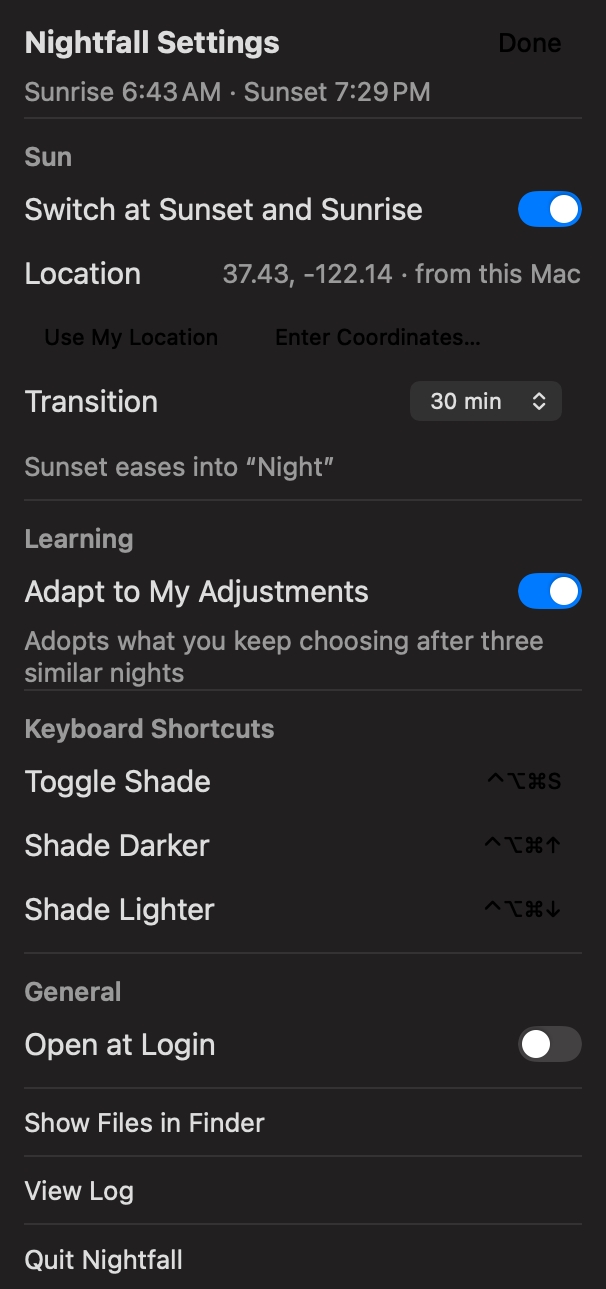
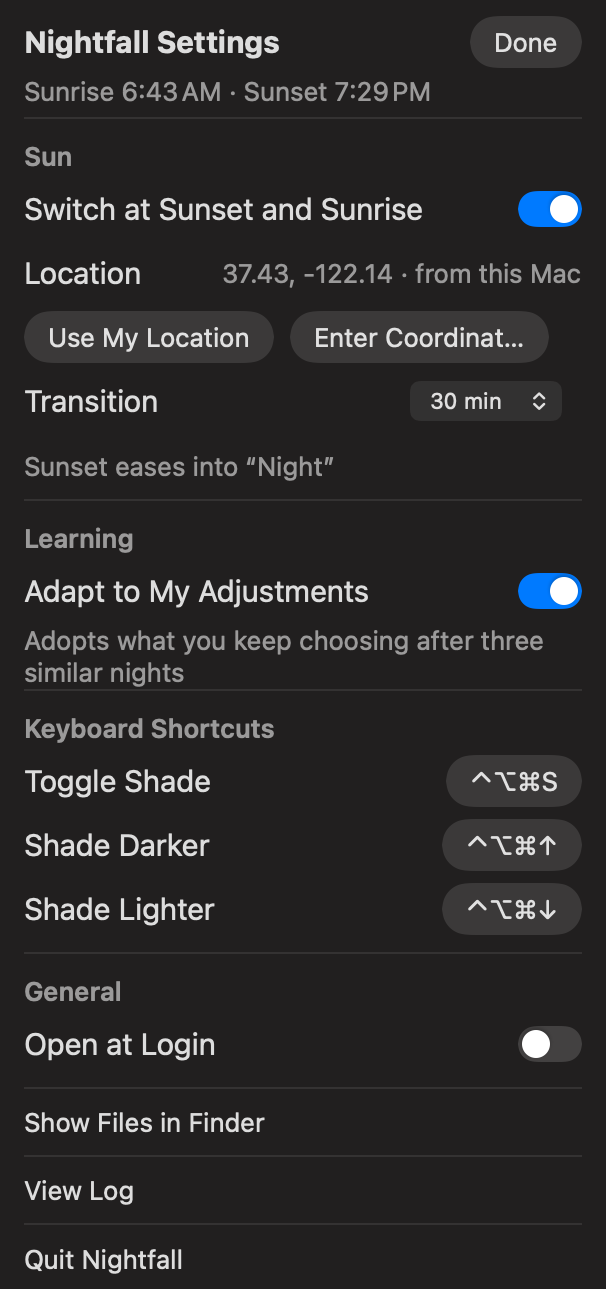
Settings screenshot with drawn button chrome; README install section

Changed region(s): [[0.0297, 0.2172, 0.9208, 0.2793], [0.7129, 0.5586, 0.9802, 0.7448], [0.7723, 0.0, 0.9505, 0.0621]]

diff --git a/app/NightfallApp.swift b/app/NightfallApp.swift
@@ -524,6 +524,20 @@ struct SwitchView: View {
         }
     }
 }
+struct PillButton: View {
+    let title: String; var prominent = false; var drawn = false; let action: () -> Void
+    var body: some View {
+        if drawn {
+            Text(title).font(CC.small).foregroundStyle(prominent ? Color.white : .primary)
+                .padding(.horizontal, 12).frame(height: 26)
+                .background(Capsule().fill(prominent ? Color.accentColor : Color.primary.opacity(0.14)))
+        } else if prominent {
+            Button(title) { action() }.buttonStyle(.glassProminent).controlSize(.small)
+        } else {
+            Button(title) { action() }.buttonStyle(.glass).controlSize(.small)
+        }
+    }
+}
 struct ToggleRow: View {
     let label: String; let isOn: Binding<Bool>; var drawn = false
     var body: some View { HStack { Text(label).font(CC.row); Spacer(); SwitchView(isOn: isOn, small: true, drawn: drawn) }.frame(height: 32) }
@@ -641,7 +655,7 @@ struct SettingsPage: View {
     var body: some View {
         VStack(spacing: 0) {
             TitleBlock(title: "Nightfall Settings", subtitle: "Sunrise \(m.sunriseText) · Sunset \(m.sunsetText)") {
-                Button { back() } label: { Text("Done").font(CC.small) }.buttonStyle(.glass).controlSize(.small)
+                PillButton(title: "Done", drawn: m.snapshotMode) { back() }
             }
 
             Header(text: "Sun")
@@ -654,8 +668,8 @@ struct SettingsPage: View {
                 TextRow(text: "Location access is off. Allow it in System Settings › Privacy & Security › Location Services, or enter coordinates.", secondary: true)
             }
             HStack(spacing: 8) {
-                Button("Use My Location") { m.useMyLocation() }.buttonStyle(.glass).controlSize(.small)
-                Button(editingLocation ? "Cancel" : "Enter Coordinates…") { editingLocation.toggle() }.buttonStyle(.glass).controlSize(.small)
+                PillButton(title: "Use My Location", drawn: m.snapshotMode) { m.useMyLocation() }
+                PillButton(title: editingLocation ? "Cancel" : "Enter Coordinates…", drawn: m.snapshotMode) { editingLocation.toggle() }
                 Spacer()
             }.frame(height: 32)
             if editingLocation {
@@ -711,7 +725,7 @@ struct SettingsPage: View {
     }
     func shortcutRow(_ label: String, _ key: String, _ sc: Shortcut) -> some View {
         HStack { Text(label).font(CC.row); Spacer()
-            Button(m.recording == key ? "Recording…" : describe(sc)) { m.recording == key ? m.stopRecording() : m.startRecording(key) }.buttonStyle(.glass).controlSize(.small).font(.system(size: 11, design: .monospaced))
+            PillButton(title: m.recording == key ? "Recording…" : describe(sc), drawn: m.snapshotMode) { m.recording == key ? m.stopRecording() : m.startRecording(key) }
         }.frame(height: 32)
     }
 }
